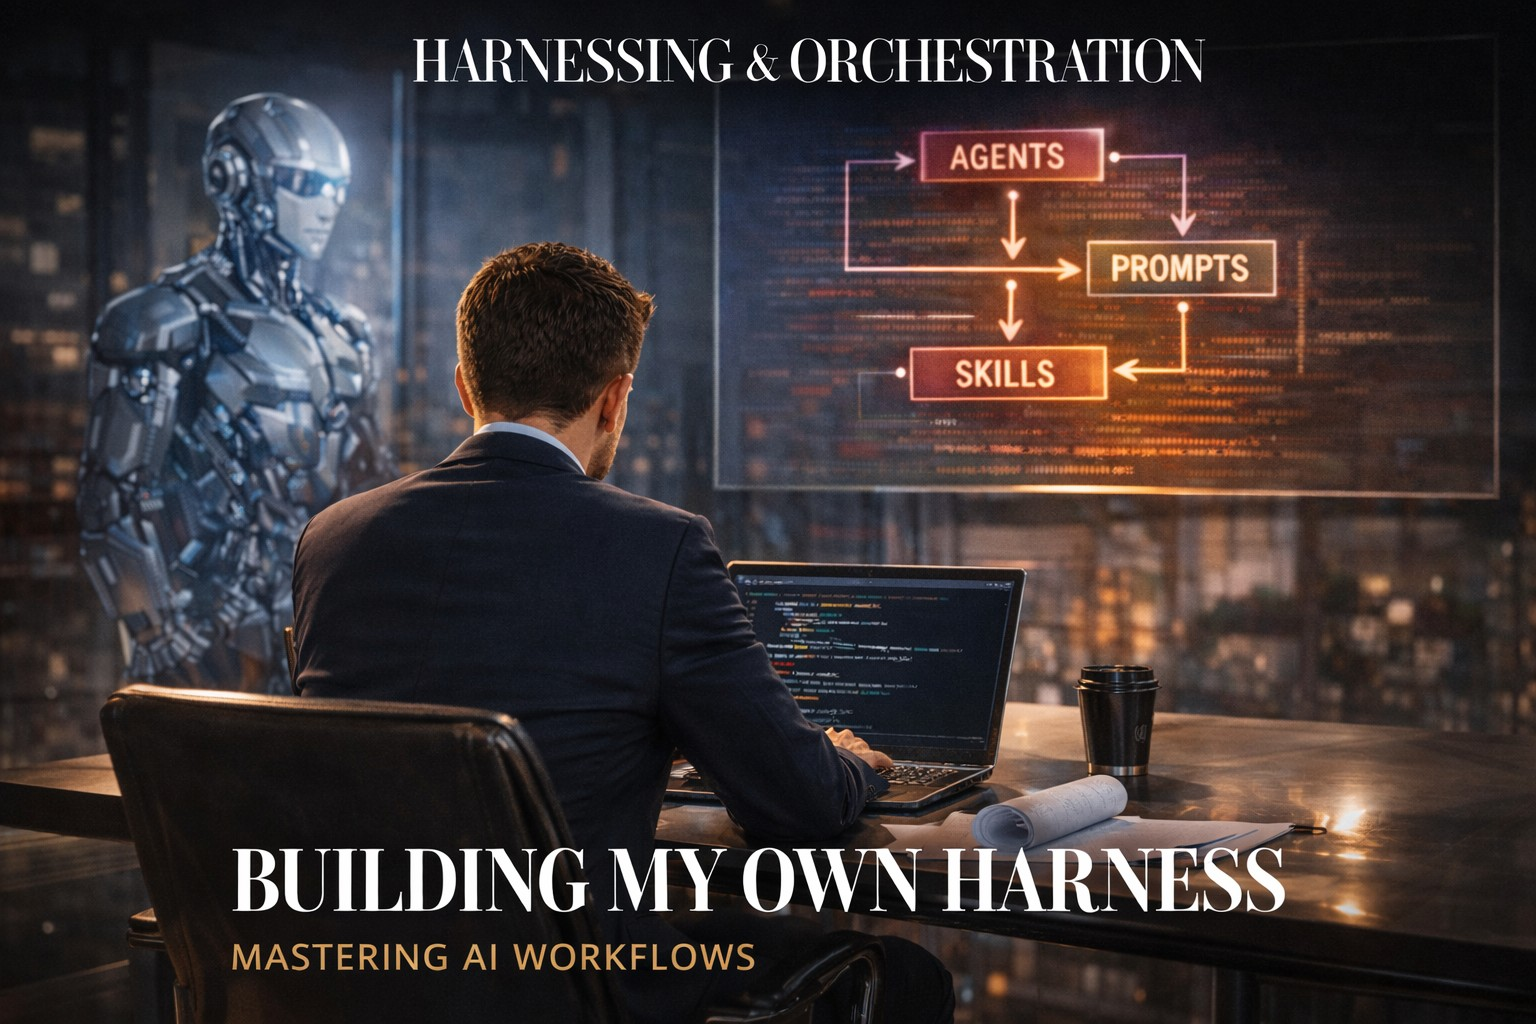
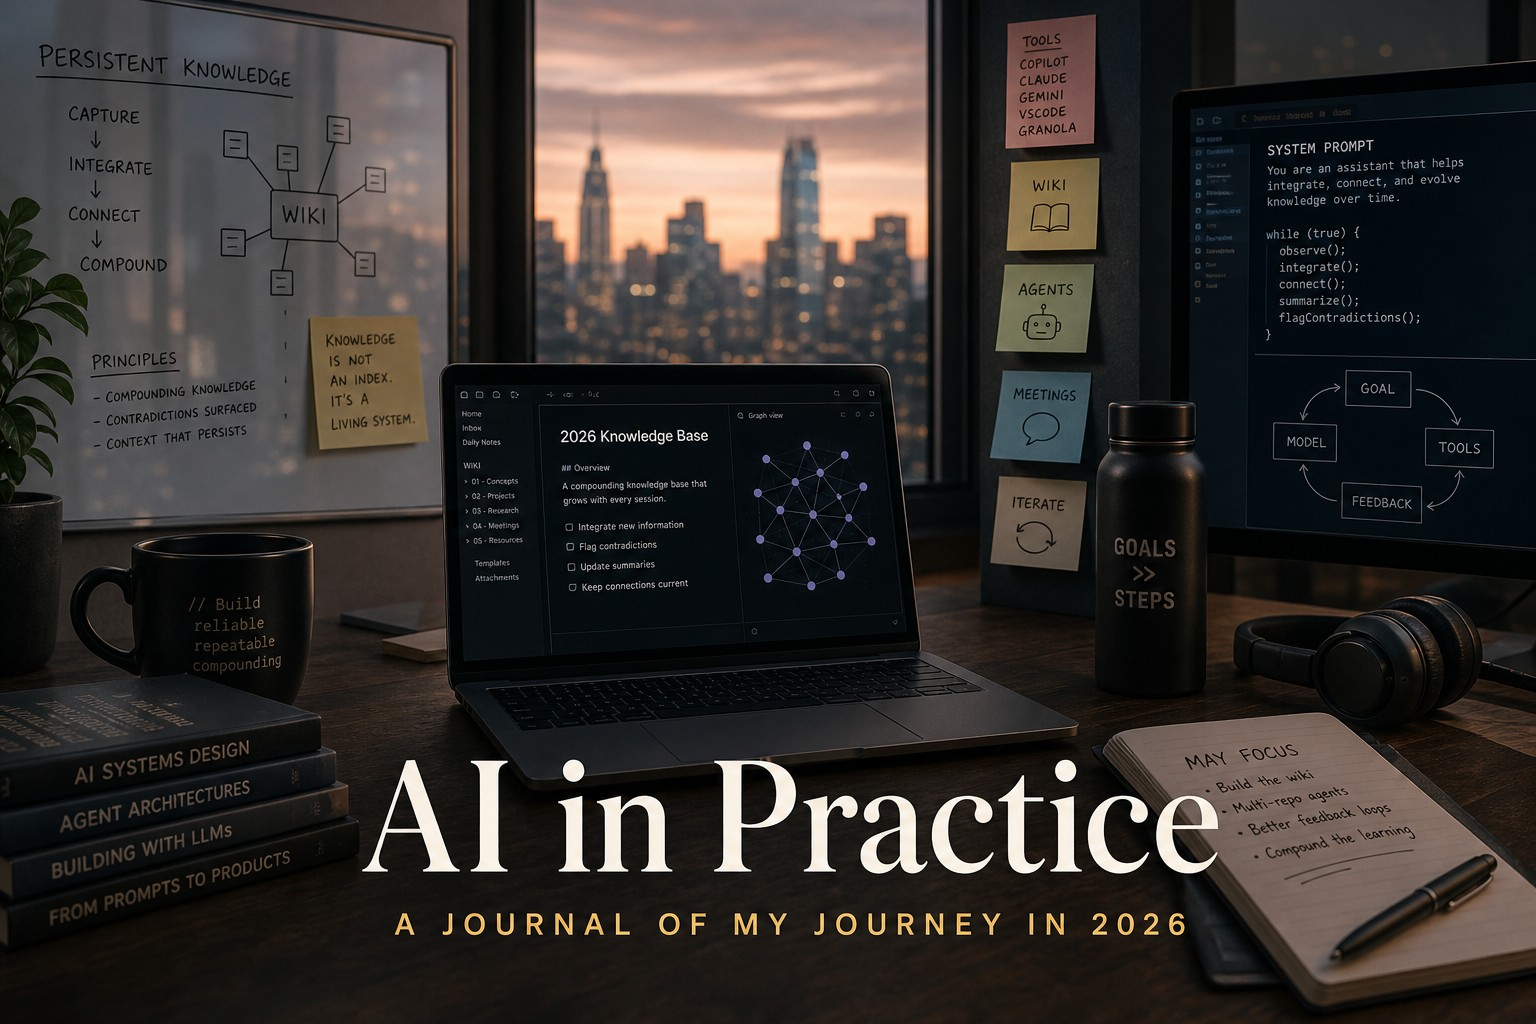
Refactor April 2026 AI retrospective post: streamline content and update image

diff --git a/website/_posts/2026-05-06-april-2026-ai-retrospective.md b/website/_posts/2026-05-06-april-2026-ai-retrospective.md
@@ -22,7 +22,7 @@ It feels to me that there's not a lot of practical "this is how I use AI in my d
 
 April has felt different from the months before it. The constant wave of new frameworks, new agent platforms, and new models hasn't stopped, but there's a change in how people are responding to it. Rather than immediately jumping to the next thing, more people seem to be pausing to figure out how to make proper use of what they already have. The conversation has shifted from "what's new" towards "what actually works in practice and how do I get more out of it."
 
-That matches where I am. The harness work I started in March has been about making things reliable and repeatable rather than building more of it. It's less satisfying to describe, but the return on investment is real. You can only learn so much from building the seventh slightly different version of the same thing.
+That matches where I am. It's less satisfying to describe, but the return on investment is real. You can only learn so much from building the seventh slightly different version of the same thing.
 
 ## Persistent Knowledge Bases
 
@@ -38,15 +38,9 @@ Both of these connect to something I mentioned in the March retro: the knowledge
 
 ## Getting On with Granola
 
-I mentioned [Granola](https://www.granola.ai/) in the March tools list without much detail. April has given me enough hands-on time to say something more useful about it. Granola works like Apple Notes but sits alongside your meetings and transcribes your computer audio directly without a bot joining the call. It works across Zoom, Google Meet, Teams, Webex, and Slack. When the meeting ends, it enhances the rough notes you typed during the call into something structured and readable.
+I mentioned [Granola](https://www.granola.ai/) in the March tools list without much detail. April has given me enough hands-on time to say something more useful about it. Granola sits alongside your meetings and transcribes your computer audio directly without a bot joining the call. It works across Zoom, Google Meet, Teams, Webex, and Slack. When the meeting ends, it enhances the rough notes you typed during the call into something structured and readable.
 
 What makes it worth using over a raw transcript is the combination: you still take partial notes yourself, and Granola fills in the structure around them. The result is a clean record that captures both what you wrote and what you missed. Over a month of regular use the value compounds in the same way the wiki idea does. You stop losing the substance of meetings.
-
-## Koog: Goal-Oriented Agents in Kotlin
-
-I referenced [Koog](https://github.com/JetBrains/koog) in the March retro as an emerging goal-oriented framework. JetBrains have now released more material explaining how it works in practice. The framework is Kotlin-native and built for Kotlin Multiplatform, which means agents can run across JVM, JS, Android, and iOS from the same codebase. The positioning is around goals rather than predefined workflow steps: instead of specifying what the agent should do next, you specify what it should achieve, and the framework handles the execution.
-
-There is a [YouTube video](https://youtu.be/Tg3BN36v-wQ?si=3IYfdFWzPNi4v0TY) that walks through the agent model with concrete examples. If you are on the JVM and interested in goal-oriented agent design, this is worth an hour of your time.
 
 ## Trying Emdash and Supacode
 
@@ -85,7 +79,5 @@ Two posts in April that connect to this month's themes:
 [Fat skills / thin harness / fat code (Garry Tan)](https://x.com/garrytan/status/2043566215927328955?s=46): A short framing from Garry Tan. The idea is that investment belongs in the skills and in the code, not in the harness layer itself. Thin harnesses with rich skills and strong codebases is where stability lives. Matches my own experience from building the Copilot SDK harness.
 
 ## What I'm thinking about for May
-
-The knowledge base idea has me thinking about building something concrete. The Karpathy approach is clear enough that it could be implemented incrementally inside an existing project structure without a big upfront commitment. Starting small: a single wiki folder fed by session notes, maintained by a reusable skill. See if it compounds.
 
 The multi-repo problem with tools like Emdash also still needs a solution. I want to be able to run agents across a bounded set of related repositories as a single unit of work. No obvious tool does this well yet.